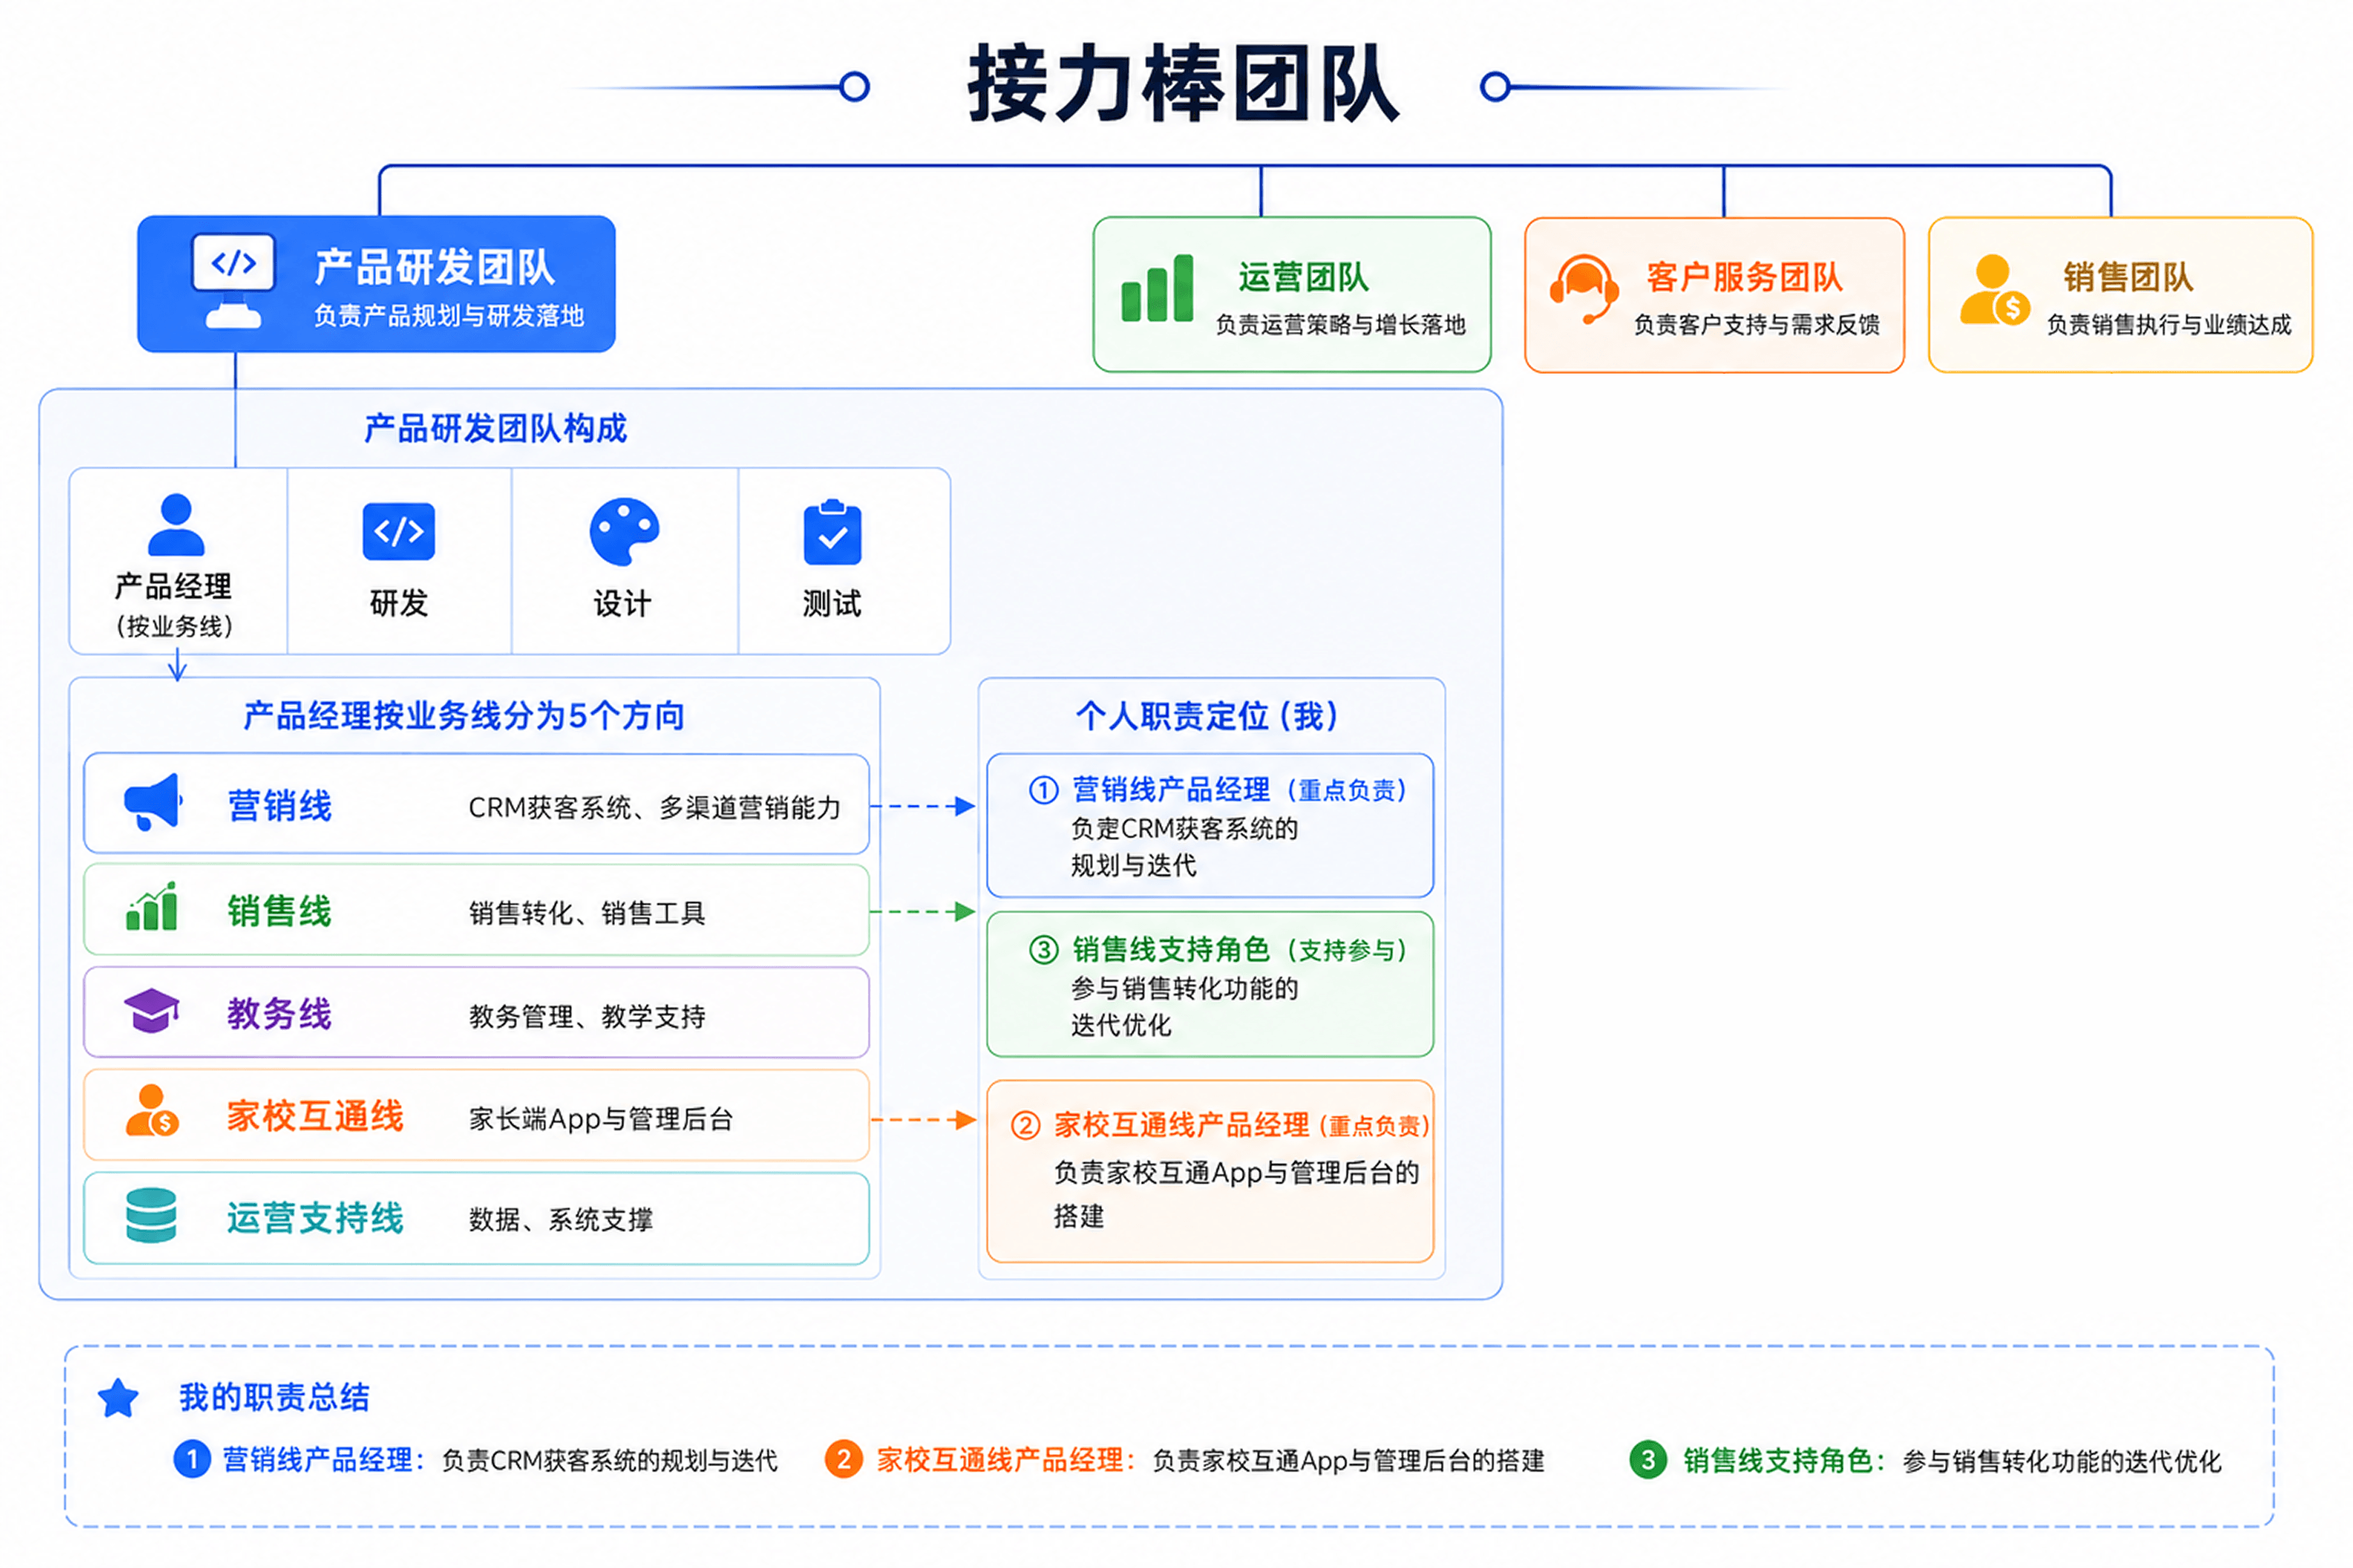
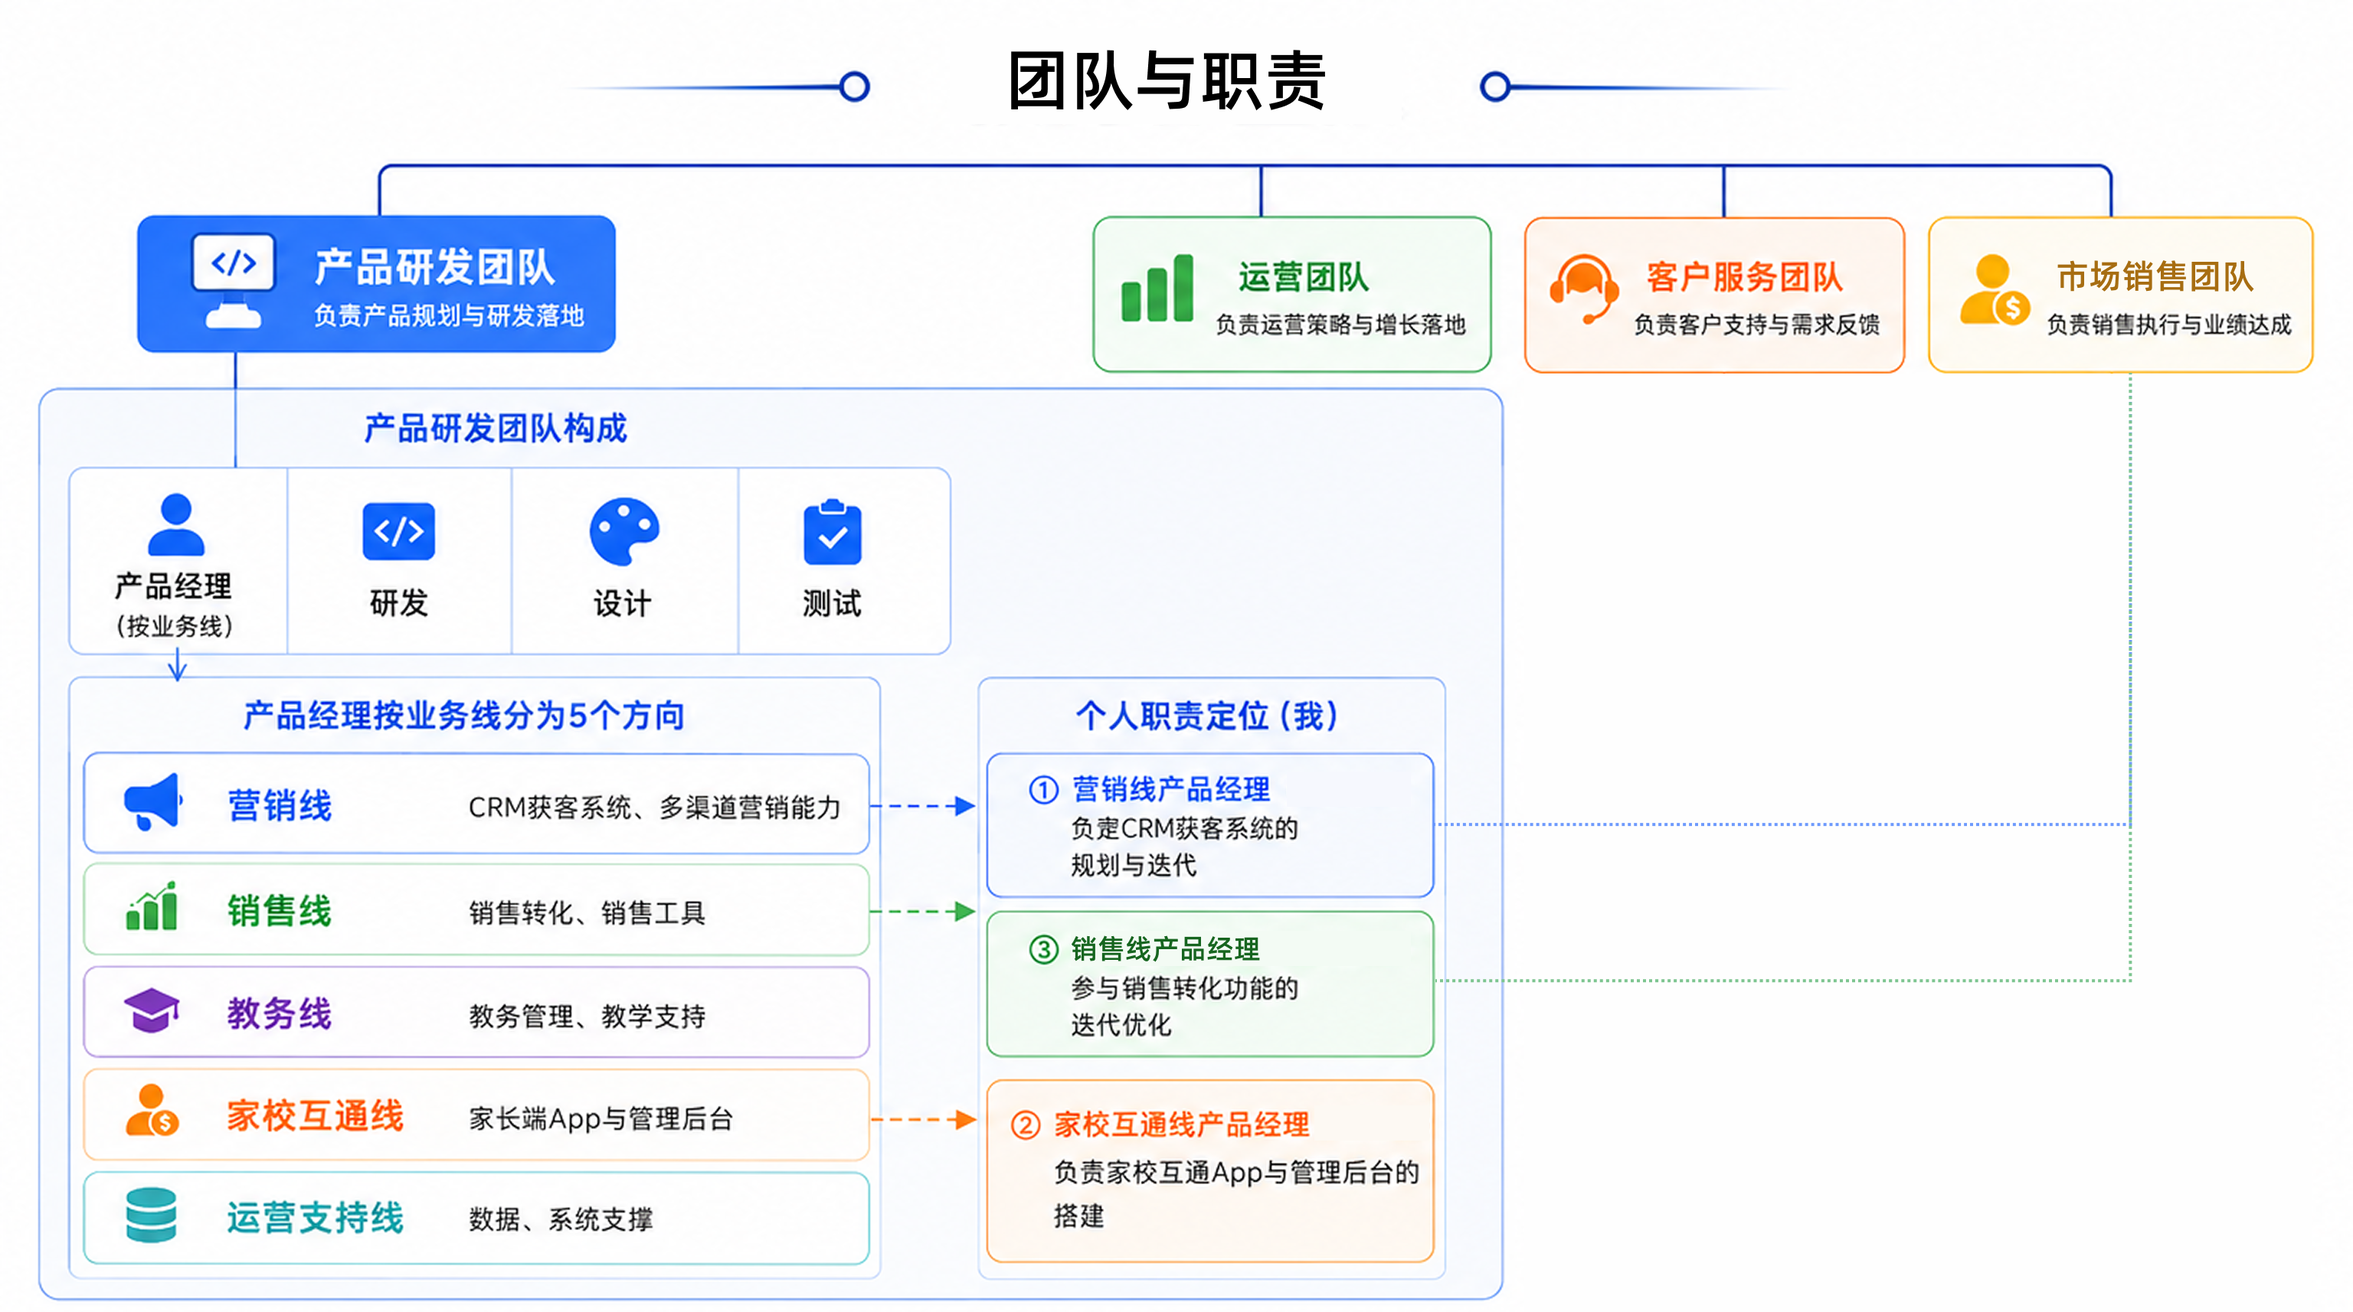
更改图片

Changed region(s): [[0.0, 0.0309, 1.0, 1.0], [0.6875, 0.8967, 0.9375, 0.9586]]

diff --git a/src/pages/ExperienceDetail.tsx b/src/pages/ExperienceDetail.tsx
@@ -155,7 +155,7 @@ const experiences: Record<string, WorkExperience> = {
     skills: ['增长黑客', 'A/B测试', 'CRM系统', '用户运营', '数据驱动']
   },
   'jielibang': {
-    company: '接力棒科技',
+    company: '瑞思英语',
     date: '2018.11 – 2021.08',
     title: '产品经理',
     location: '杭州',
@@ -494,7 +494,7 @@ export default function ExperienceDetail() {
                       />
                     </motion.div>
                   )}
-                    {exp.company === '接力棒科技' && (
+                    {exp.company === '瑞思英语' && (
                       <motion.div 
                         initial={{ opacity: 0, y: 20 }}
                         whileInView={{ opacity: 1, y: 0 }}

diff --git a/src/components/Experience.tsx b/src/components/Experience.tsx
@@ -19,7 +19,7 @@ const experiences = [
   },
   {
     id: 'jielibang',
-    company: '接力棒科技',
+    company: '瑞思英语',
     date: '2018.11 – 2021.08',
     title: '产品经理',
     desc: '负责CRM SaaS平台，主导“获客-转化-留存”全链路，搭建获客系统与数据平台，打通地推、试听、转介绍等渠道；地推用户量提升30%，3个月采集表单20万+。并推进家校互通App，提升家长活跃、续费与转介绍。'
